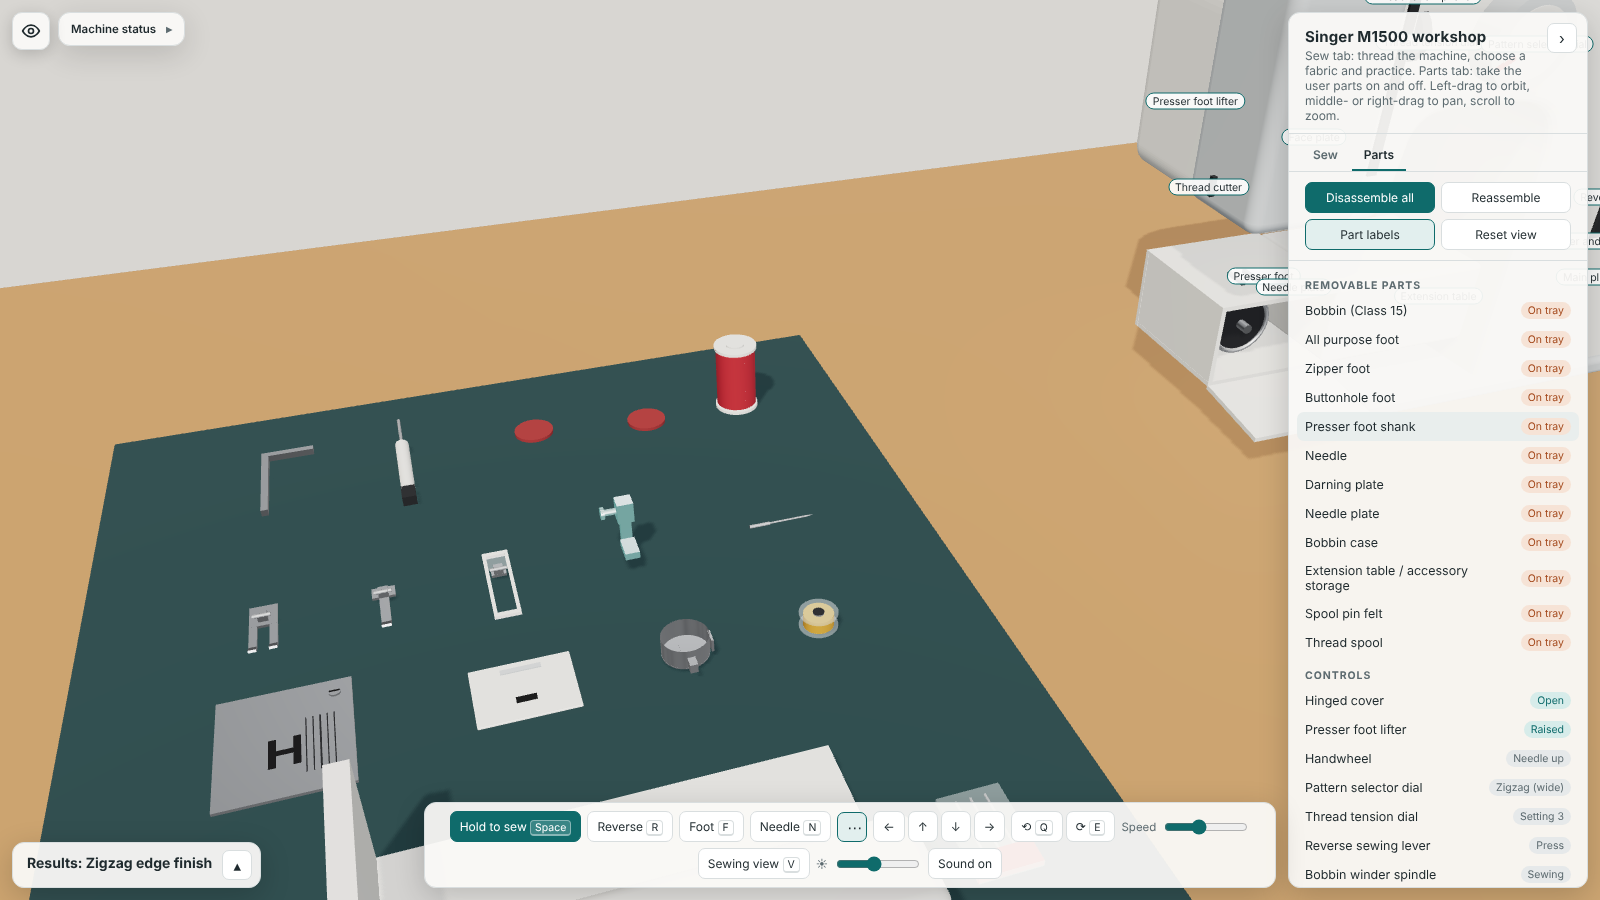
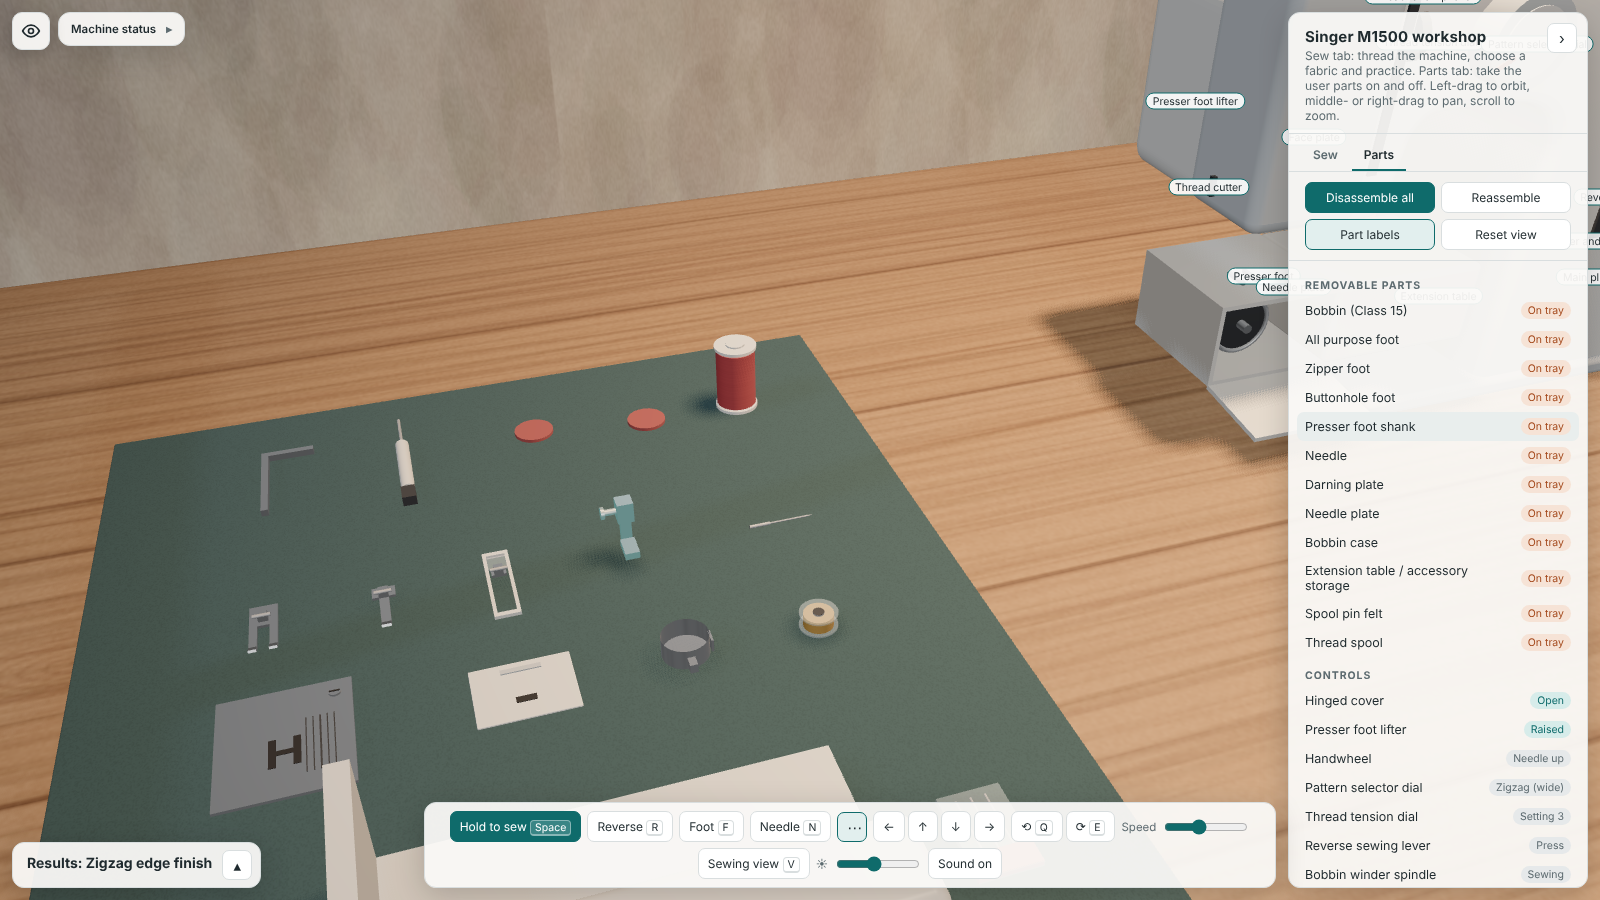
Refresh the Sewing Simulator screenshots
Swaps in the new images from the Sewing-Workshop README: the logo-print
fabric, evening lighting and textured room. Updates the main image's alt
text to match.

Claude-Session: https://claude.ai/code/session_01SfK6KXbvWmL45neY6ha3XE

diff --git a/projects.html b/projects.html
@@ -79,7 +79,7 @@
 
           <article class="card gh-card" id="sewing-simulator">
             <a class="gh-media" href="assets/img/projects/sewing-workshop/sewing.png" data-lightbox="sewing">
-              <img src="assets/img/projects/sewing-workshop/sewing.png" alt="Sewing a straight seam on floral quilting cotton, with the machine status and stitch settings panels" width="1600" height="900" loading="lazy">
+              <img src="assets/img/projects/sewing-workshop/sewing.png" alt="Sewing a straight seam on quilting cotton printed with my logo, under a warm pendant lamp, with the machine status and stitch settings panels" width="1600" height="900" loading="lazy">
             </a>
             <div class="card-body">
               <div class="project-head"><time datetime="2026-11">Nov 2026</time></div>
